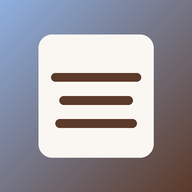
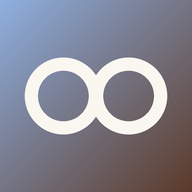
feat: renomme PostSync en Tandem, nouvelles icones

diff --git a/components/Auth.tsx b/components/Auth.tsx
@@ -54,8 +54,8 @@ export default function Auth() {
         className="w-full max-w-sm space-y-3 rounded-3xl border border-line bg-surface p-7 backdrop-blur-xl"
       >
         <div className="mb-2 text-center">
-          <div className="text-4xl">✍</div>
-          <h1 className="mt-2 text-2xl font-bold">PostSync</h1>
+          <div className="text-4xl">🔗</div>
+          <h1 className="mt-2 text-2xl font-bold">Tandem</h1>
           <p className="text-sm text-muted">Écrivez, publiez, avancez ensemble.</p>
         </div>
         {mode === "up" && (

diff --git a/app/manifest.ts b/app/manifest.ts
@@ -2,8 +2,8 @@ import type { MetadataRoute } from "next";
 
 export default function manifest(): MetadataRoute.Manifest {
   return {
-    name: "PostSync",
-    short_name: "PostSync",
+    name: "Tandem",
+    short_name: "Tandem",
     description: "Suivi de posts à deux",
     start_url: "/",
     display: "standalone",

diff --git a/app/layout.tsx b/app/layout.tsx
@@ -17,7 +17,7 @@ export const viewport: Viewport = {
 };
 
 export const metadata: Metadata = {
-  title: "PostSync",
+  title: "Tandem",
   description: "Suivi de posts à deux",
 };
 
